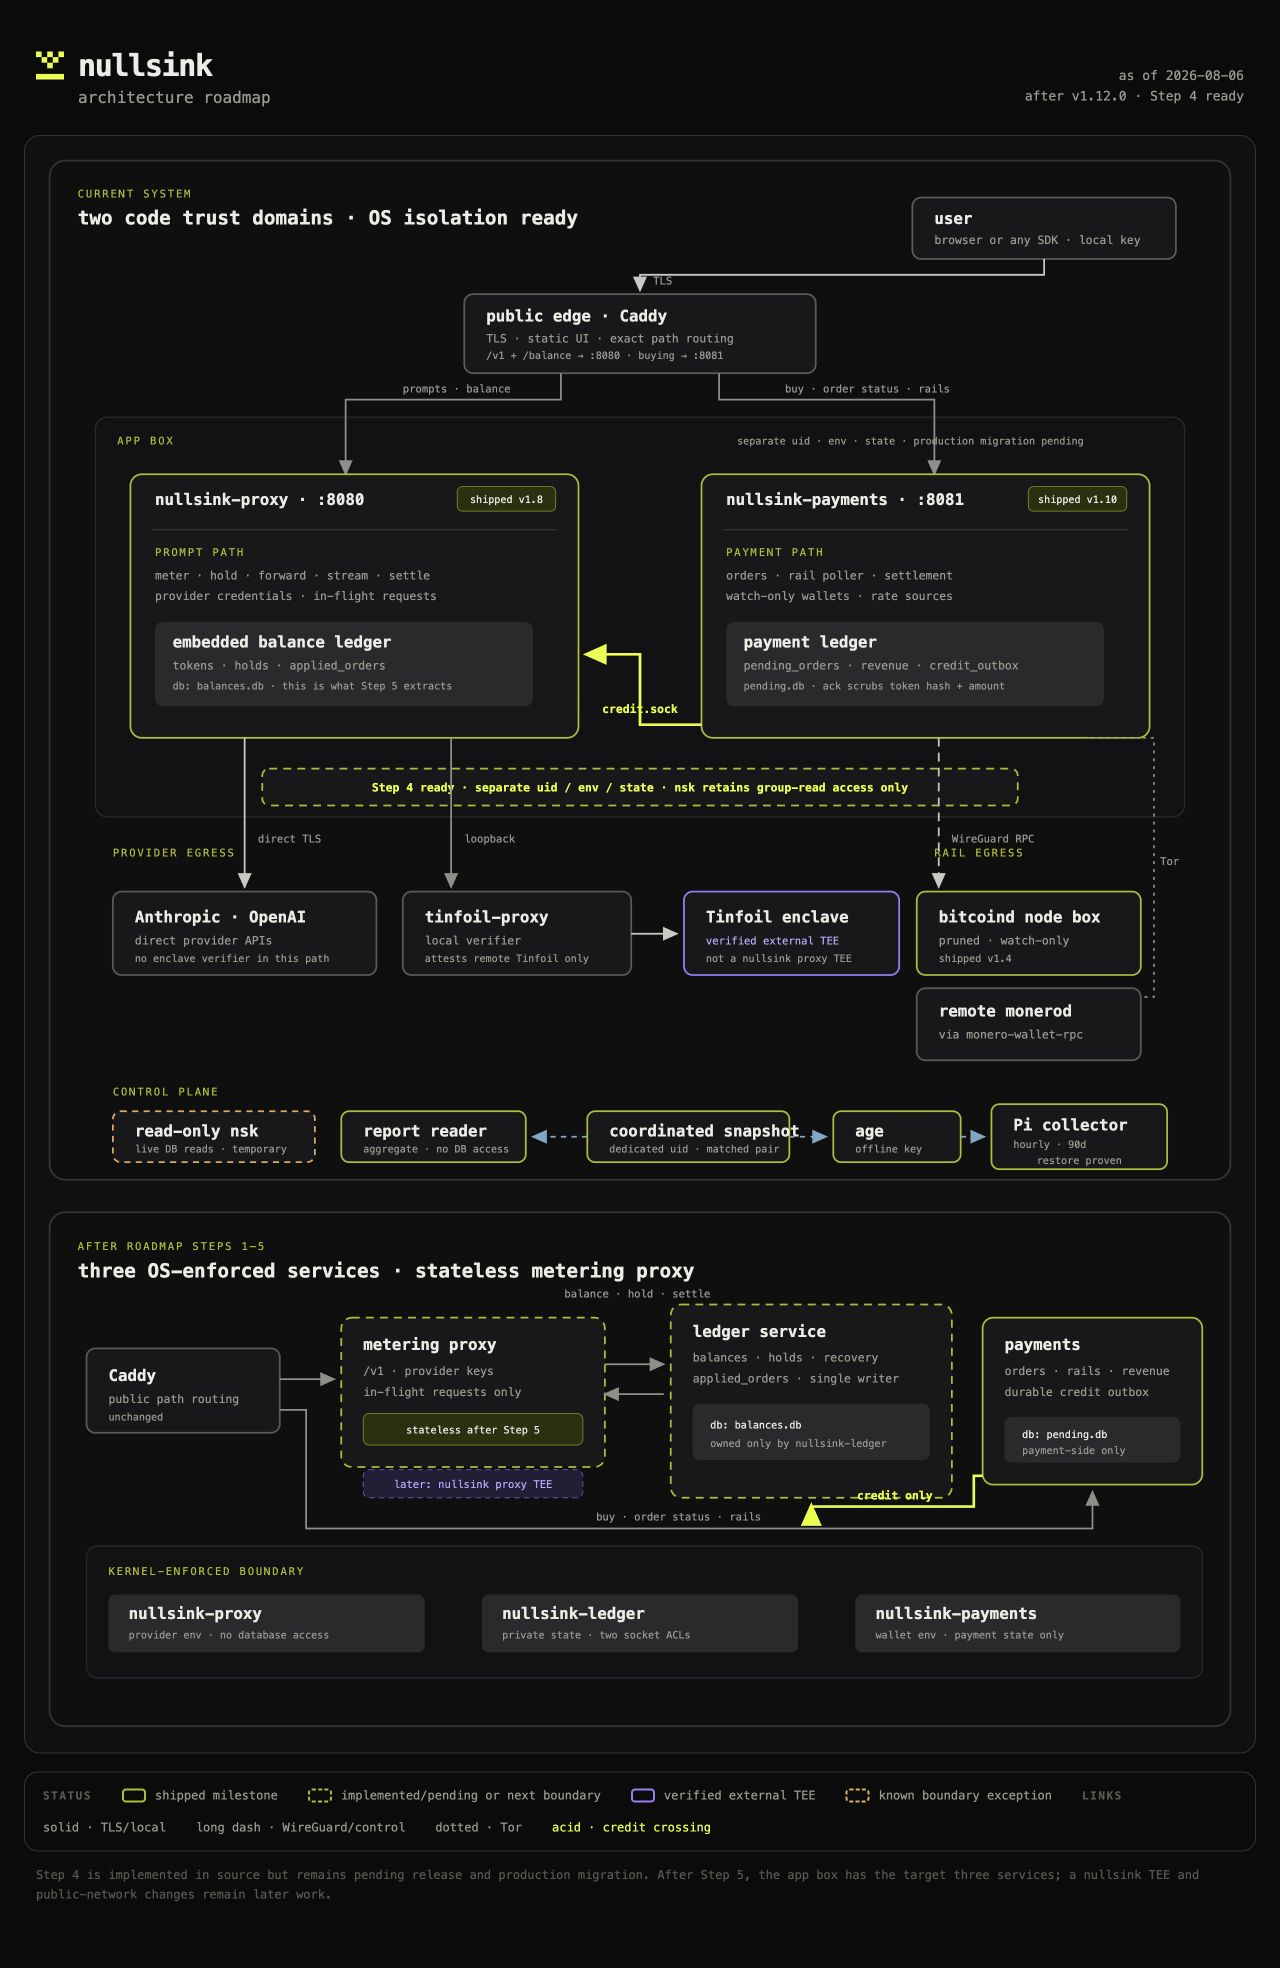
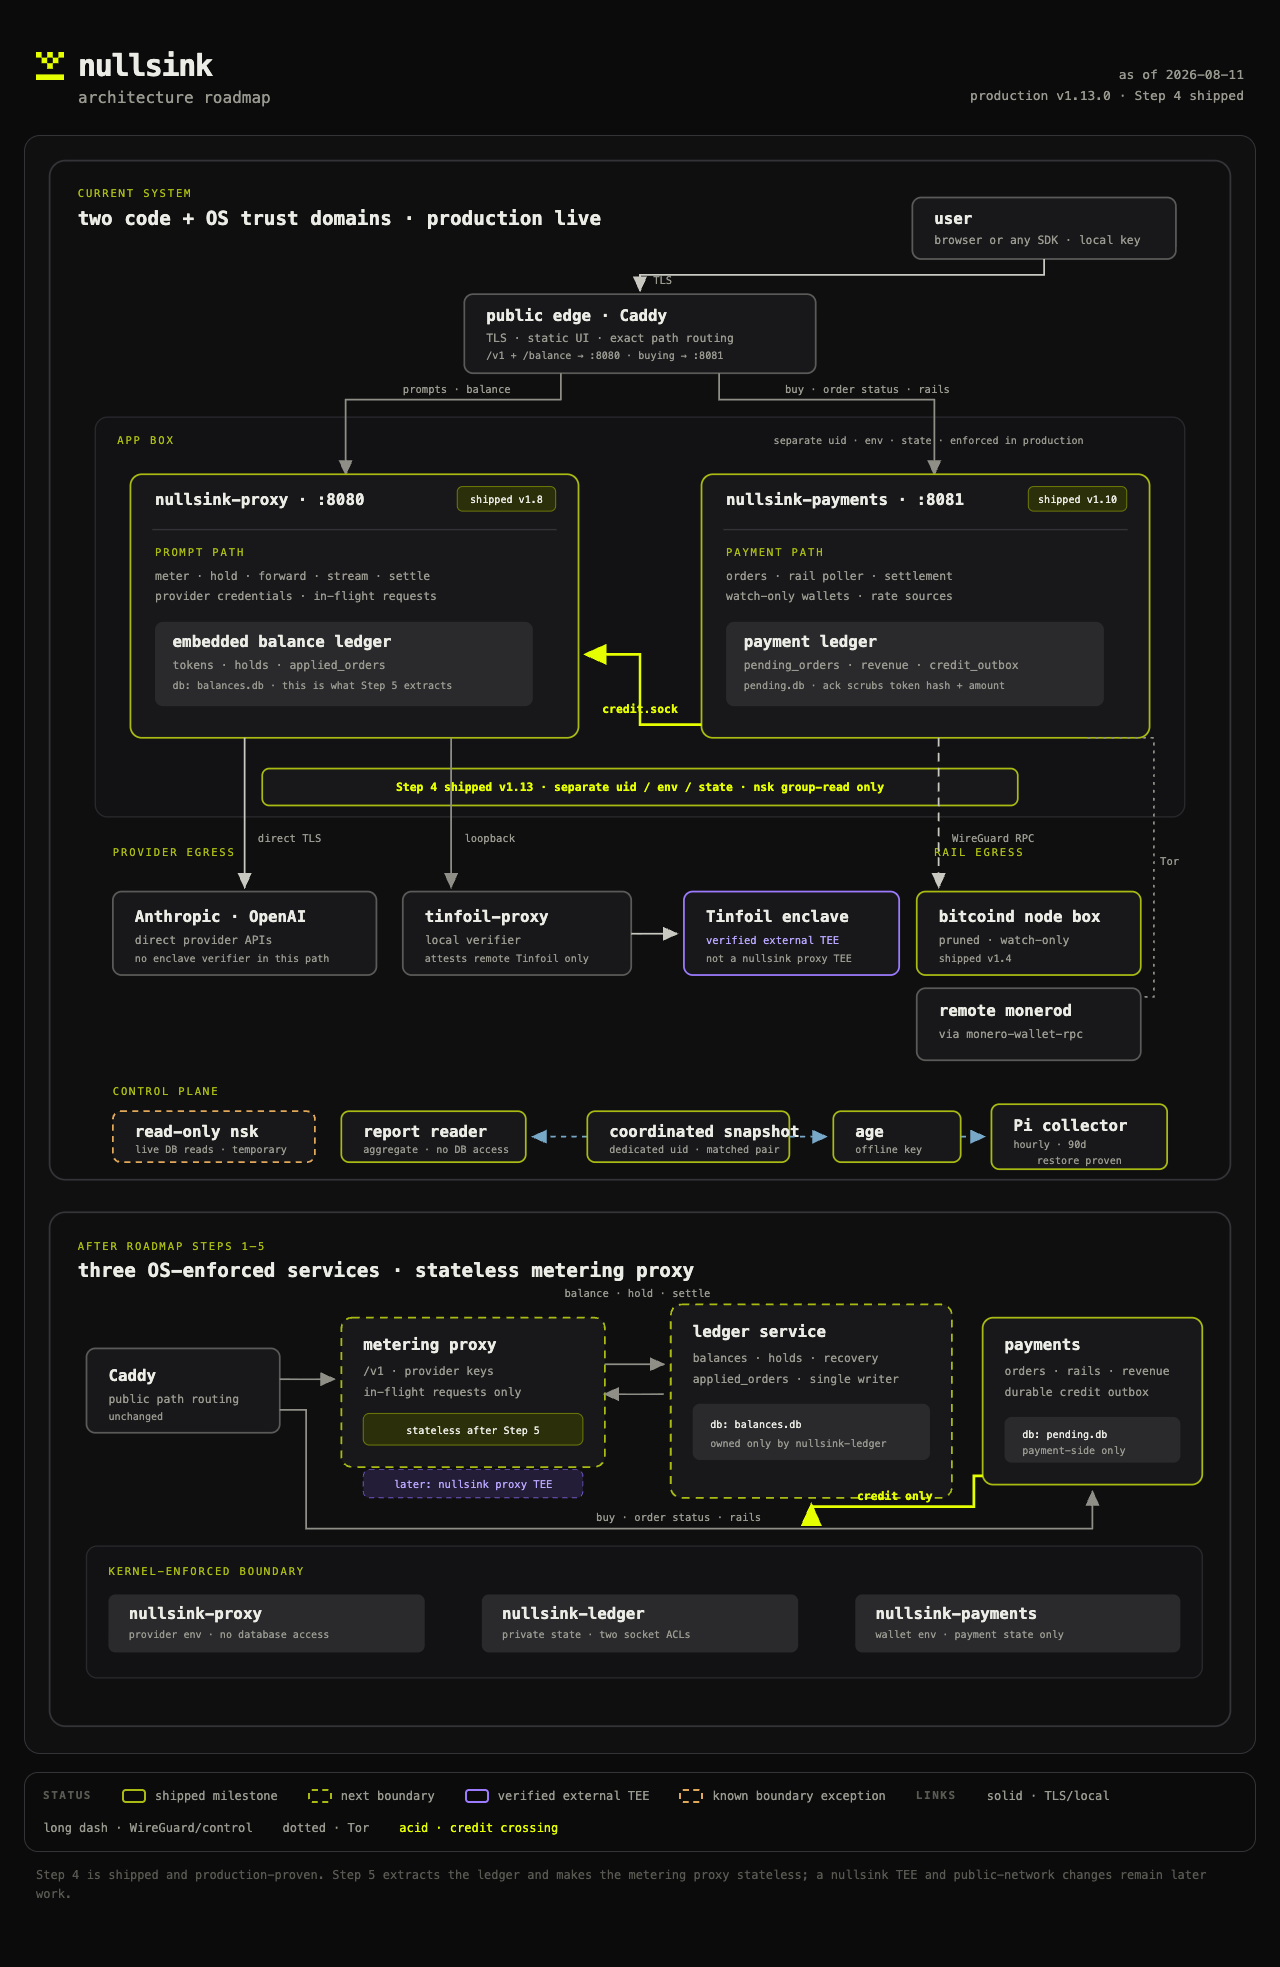
docs: mark service isolation shipped (#166)
Refresh the roadmap source and rendered artifact after the production v1.13.0 migration, leaving ledger extraction as the next runtime boundary.\n\nCo-authored-by: Codex <noreply@openai.com>

diff --git a/docs/architecture-roadmap.html b/docs/architecture-roadmap.html
@@ -101,13 +101,13 @@
       </div>
       <div class="subtitle">architecture roadmap</div>
     </div>
-    <div class="stamp">as of 2026-08-06<br>after v1.12.0 · Step 4 ready</div>
+    <div class="stamp">as of 2026-08-11<br>production v1.13.0 · Step 4 shipped</div>
   </header>
 
   <div class="diagram">
     <svg viewBox="0 0 1400 1840" role="img" aria-labelledby="roadmap-title roadmap-desc">
       <title id="roadmap-title">nullsink current architecture and target app-box boundary</title>
-      <desc id="roadmap-desc">Caddy routes to separate proxy and payments processes. Step 4 implements distinct operating-system identities, environment files, state roots, database read groups, and a credit-socket group; release and production migration remain pending. The proxy still embeds the balance ledger. Payments delivers durable credits over a Unix socket and definite acknowledgement scrubs the token hash and amount. Coordinated encrypted recovery artifacts and aggregate reports cross a restricted read-only export to an hourly Raspberry Pi collector when it is online. Version 1.12.0 removes operator mutation and recovery commands while temporarily retaining two read-only live views for balances and financials. Anthropic and OpenAI are reached directly, while only Tinfoil uses an enclave-verifying sidecar. After roadmap step five, a third ledger service owns balances and the proxy becomes stateless.</desc>
+      <desc id="roadmap-desc">Caddy routes to separate proxy and payments processes. Step 4 is live in production: distinct operating-system identities, root-owned environment files, state roots, database read groups, and a credit-socket group enforce the service boundary. The proxy still embeds the balance ledger. Payments delivers durable credits over a Unix socket and definite acknowledgement scrubs the token hash and amount. Coordinated encrypted recovery artifacts and aggregate reports cross a restricted read-only export to an hourly Raspberry Pi collector when it is online. Version 1.12.0 removed operator mutation and recovery commands while temporarily retaining two read-only live views for balances and financials. Anthropic and OpenAI are reached directly, while only Tinfoil uses an enclave-verifying sidecar. After roadmap step five, a third ledger service owns balances and the proxy becomes stateless.</desc>
       <defs>
         <marker id="arrowBone" markerWidth="10" markerHeight="10" refX="8" refY="4" orient="auto"><path d="M0,0 L9,4 L0,8 Z" fill="#c9c9c2"/></marker>
         <marker id="arrowMuted" markerWidth="10" markerHeight="10" refX="8" refY="4" orient="auto"><path d="M0,0 L9,4 L0,8 Z" fill="#8f8f88"/></marker>
@@ -119,7 +119,7 @@
       <!-- CURRENT SYSTEM -->
       <rect class="panel" x="28" y="28" width="1344" height="1160" rx="18"/>
       <text class="section-kicker" x="60" y="70">CURRENT SYSTEM</text>
-      <text class="section-title" x="60" y="101">two code trust domains · OS isolation ready</text>
+      <text class="section-title" x="60" y="101">two code + OS trust domains · production live</text>
 
       <!-- user and edge -->
       <rect class="node" x="1010" y="70" width="300" height="70" rx="10"/>
@@ -136,7 +136,7 @@
       <!-- app box -->
       <rect class="plane" x="80" y="320" width="1240" height="455" rx="14"/>
       <text class="section-kicker" x="105" y="351">APP BOX</text>
-      <text class="copy-small" x="1205" y="351" text-anchor="end">separate uid · env · state · production migration pending</text>
+      <text class="copy-small" x="1205" y="351" text-anchor="end">separate uid · env · state · enforced in production</text>
 
       <!-- caddy routing -->
       <path class="edge-muted" d="M610 270 L610 300 L365 300 L365 385" marker-end="url(#arrowMuted)"/>
@@ -177,8 +177,8 @@
       <text class="label-acid" x="700" y="657" text-anchor="middle">credit.sock</text>
 
       <!-- Step 4 OS boundary callout -->
-      <rect class="node-planned" x="270" y="720" width="860" height="42" rx="8"/>
-      <text class="label-acid" x="700" y="746" text-anchor="middle">Step 4 ready · separate uid / env / state · nsk retains group-read access only</text>
+      <rect class="node-shipped" x="270" y="720" width="860" height="42" rx="8"/>
+      <text class="label-acid" x="700" y="746" text-anchor="middle">Step 4 shipped v1.13 · separate uid / env / state · nsk group-read only</text>
 
       <!-- provider egress -->
       <text class="section-kicker" x="100" y="820">PROVIDER EGRESS</text>
@@ -302,7 +302,7 @@
   <div class="legend" aria-label="Diagram legend">
     <strong>status</strong>
     <span class="legend-item"><span class="swatch shipped"></span>shipped milestone</span>
-    <span class="legend-item"><span class="swatch planned"></span>implemented/pending or next boundary</span>
+    <span class="legend-item"><span class="swatch planned"></span>next boundary</span>
     <span class="legend-item"><span class="swatch tee"></span>verified external TEE</span>
     <span class="legend-item"><span class="swatch exception"></span>known boundary exception</span>
     <strong>links</strong>
@@ -311,7 +311,7 @@
     <span class="legend-item">dotted · Tor</span>
     <span class="legend-item" style="color: var(--acid)">acid · credit crossing</span>
   </div>
-  <div class="foot">Step 4 is implemented in source but remains pending release and production migration. After Step 5, the app box has the target three services; a nullsink TEE and public-network changes remain later work.</div>
+  <div class="foot">Step 4 is shipped and production-proven. Step 5 extracts the ledger and makes the metering proxy stateless; a nullsink TEE and public-network changes remain later work.</div>
 </main>
 </body>
 </html>

diff --git a/docs/architecture-roadmap.md b/docs/architecture-roadmap.md
@@ -6,23 +6,23 @@ artifact is [`architecture-roadmap.png`](architecture-roadmap.png).
 
 ![nullsink architecture: current system and target app-box boundary](architecture-roadmap.png)
 
-## Status — 2026-08-06, after v1.12.0
+## Status — 2026-08-11, after production v1.13.0 and merge of #161
 
 | Milestone | State | Evidence / remaining boundary |
 | --- | --- | --- |
-| Dedicated Bitcoin node box | **Shipped** in v1.4.x | Separate `nullsink-node-box-<tag>.tar.gz` release artifact; RPC crosses WireGuard. |
+| Dedicated Bitcoin node box | **Shipped** in v1.4.x; packaging cleanup merged | The remote watch-only node is reached over WireGuard. Main now packages node day-two assets separately and carries no app-box bitcoind management. |
 | Proxy/payments process split | **Shipped** in v1.8.0 | Two binaries, two HTTP ports, path routing, transactional credit outbox. |
 | Payment→prompt credit crossing | **Shipped** | At-least-once delivery over a pathname Unix socket; `applied_orders` makes application idempotent. |
 | Delivered-link scrubbing | **Shipped** in v1.10.1 | Definite ack atomically clears hash/amount; 11 legacy acknowledgements migrated idempotently in production; restores verify tombstones against the ledger. |
 | Financial and backup egress | **Shipped and recovery-proven** in v1.11.0 | Production publishes encrypted pairs through restricted read-only `rrsync`; the Pi pulls hourly, retains 90 days, and holds no `age` identity. Manual and scheduled pulls plus an offline dry-run restore passed in production. |
 | Operator database access | **Reduced in v1.12.0** | Mutating/recovery commands are retired. Two read-only live views remain temporarily: balances and financials. |
-| Separate OS principals | **Implemented in source; release and production migration pending** | Distinct users, env files, state roots, read groups, credit-socket group, and an explicit two-phase migration. |
+| Separate OS principals | **Shipped and production-proven** in v1.13.0 | Distinct users, root-owned env files, state roots, read groups, and credit-socket group. Production passed the permission matrix, encrypted post-migration backup, and offline restore drill. |
 | Ledger service | **Not started** | The proxy still owns `balances.db`, holds, and `applied_orders`. |
 | Stateless metering proxy | **Blocked on ledger extraction** | This is the app-box target reached after roadmap steps 1–5 below. |
 | nullsink proxy TEE | **Later feasibility work** | Distinct from the live Tinfoil verifier, which attests only Tinfoil's remote enclave. |
 | Public onion / geographic relay | **Later network work** | Not part of the five app-box steps below. |
 
-## Production boundary before Step 4
+## Current production boundary after Step 4
 
 Production is two application processes on one box:
 
@@ -35,15 +35,14 @@ Production is two application processes on one box:
 - Runtime dependency-closure tests keep prompt code out of the payments binary and payment
   code out of the proxy binary.
 
-This is an application-level trust boundary, not yet an OS security boundary. Both units run
-under the same Linux identity and read the same environment file, so either process can still bypass the
-TypeScript boundary through filesystem permissions. Read-only `nsk financials` is the explicit operator
-exception: it opens both databases for live reconciliation but cannot mutate them.
+Linux now enforces the application boundary. The two units run as distinct principals, load separate
+root-owned environment files, and own separate state roots. Neither service can read the other service's
+database or secrets. Payments can reach only the proxy-owned credit socket through `nullsink-credit`.
 
-The Step 4 implementation makes that boundary enforceable by Linux permissions. It preserves the temporary
-operator readers through group-only database access and keeps the matched-pair backup contract through a
-dedicated backup principal. Production remains on the paragraph above until the release is staged, recovery-
-proven, deployed, and finalized.
+Two bounded read-only exceptions remain: the `nullsink` operator principal can run `nsk balances` and
+`nsk financials`, and the dedicated backup principal can create coordinated snapshots. Their supplemental
+groups grant database reads but no writes. Step 5 replaces the proxy-owned balance database with a ledger
+service interface, which also enables retirement of the temporary live `nsk` readers.
 
 Provider routing is deliberately asymmetric. Anthropic and OpenAI are reached directly over
 TLS. Only Tinfoil traffic traverses the local `tinfoil-proxy`, which attests Tinfoil's remote
@@ -104,19 +103,19 @@ Gate for this slice: the released CLI exposes exactly `balances` and `financials
 all funding uses `/buy`. Remaining gate: replace both database readers with service-owned read interfaces
 during OS separation and ledger extraction, then retire `nsk`.
 
-### 4. Enforce OS privilege separation — implemented; deployment pending
+### 4. Enforce OS privilege separation — shipped in v1.13.0
 
 Run proxy and payments under different Linux users, with separate environment files and state
 directories. Grant socket access explicitly with a dedicated group or ACL. A compromised payments
 process must not be able to read provider keys or `balances.db`; a compromised proxy must not be
 able to read wallet credentials or `pending.db`.
 
-The implementation uses `nullsink-proxy`, `nullsink-payments`, and `nullsink-backup` principals; separate
+Production uses `nullsink-proxy`, `nullsink-payments`, and `nullsink-backup` principals; separate
 proxy/payments/backup/monitor env files; separate state roots; read-only groups for the temporary operator
 views and coordinated backup; and a `nullsink-credit` group that grants payments access only to the credit
-socket. The old shared layout is copied during an explicit quiet window and retained root-only for bounded
-rollback. Finalization is deliberately separate from deployment and follows a post-migration encrypted
-backup plus offline restore dry run.
+socket. The migration completed during a financial quiet window, preserved both database fingerprints,
+passed the live permission matrix, and produced an encrypted post-migration artifact that passed an offline
+restore dry run. The obsolete shared layout was then finalized and removed.
 
 Gate: deployment tests prove the file and socket permission matrix, not only the TypeScript import
 matrix.
